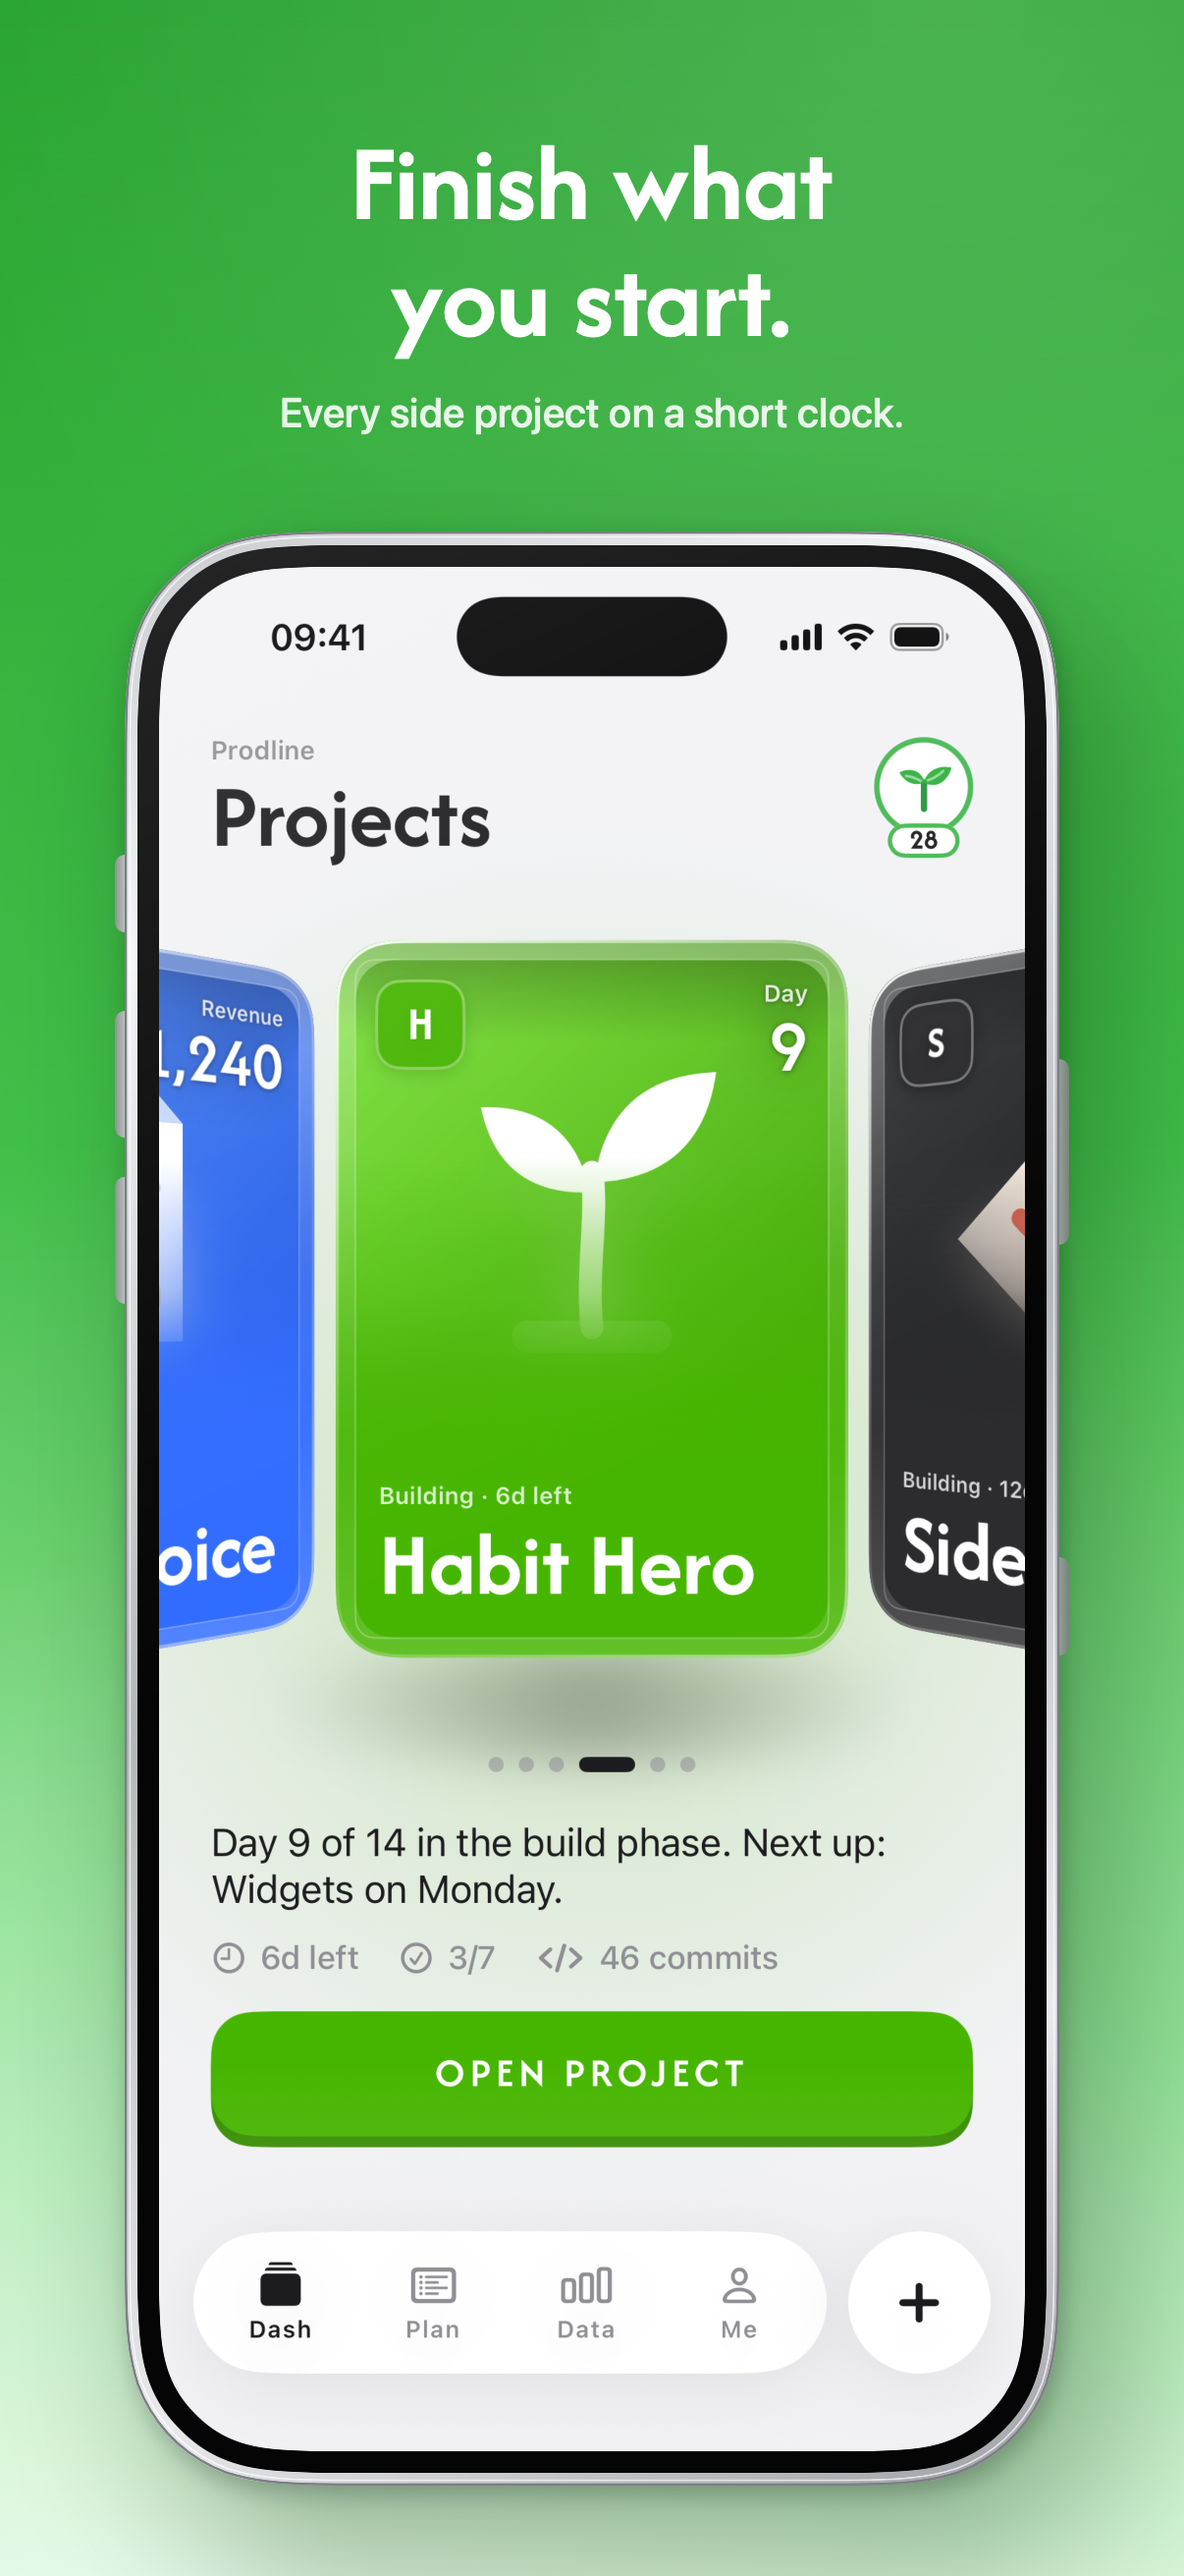
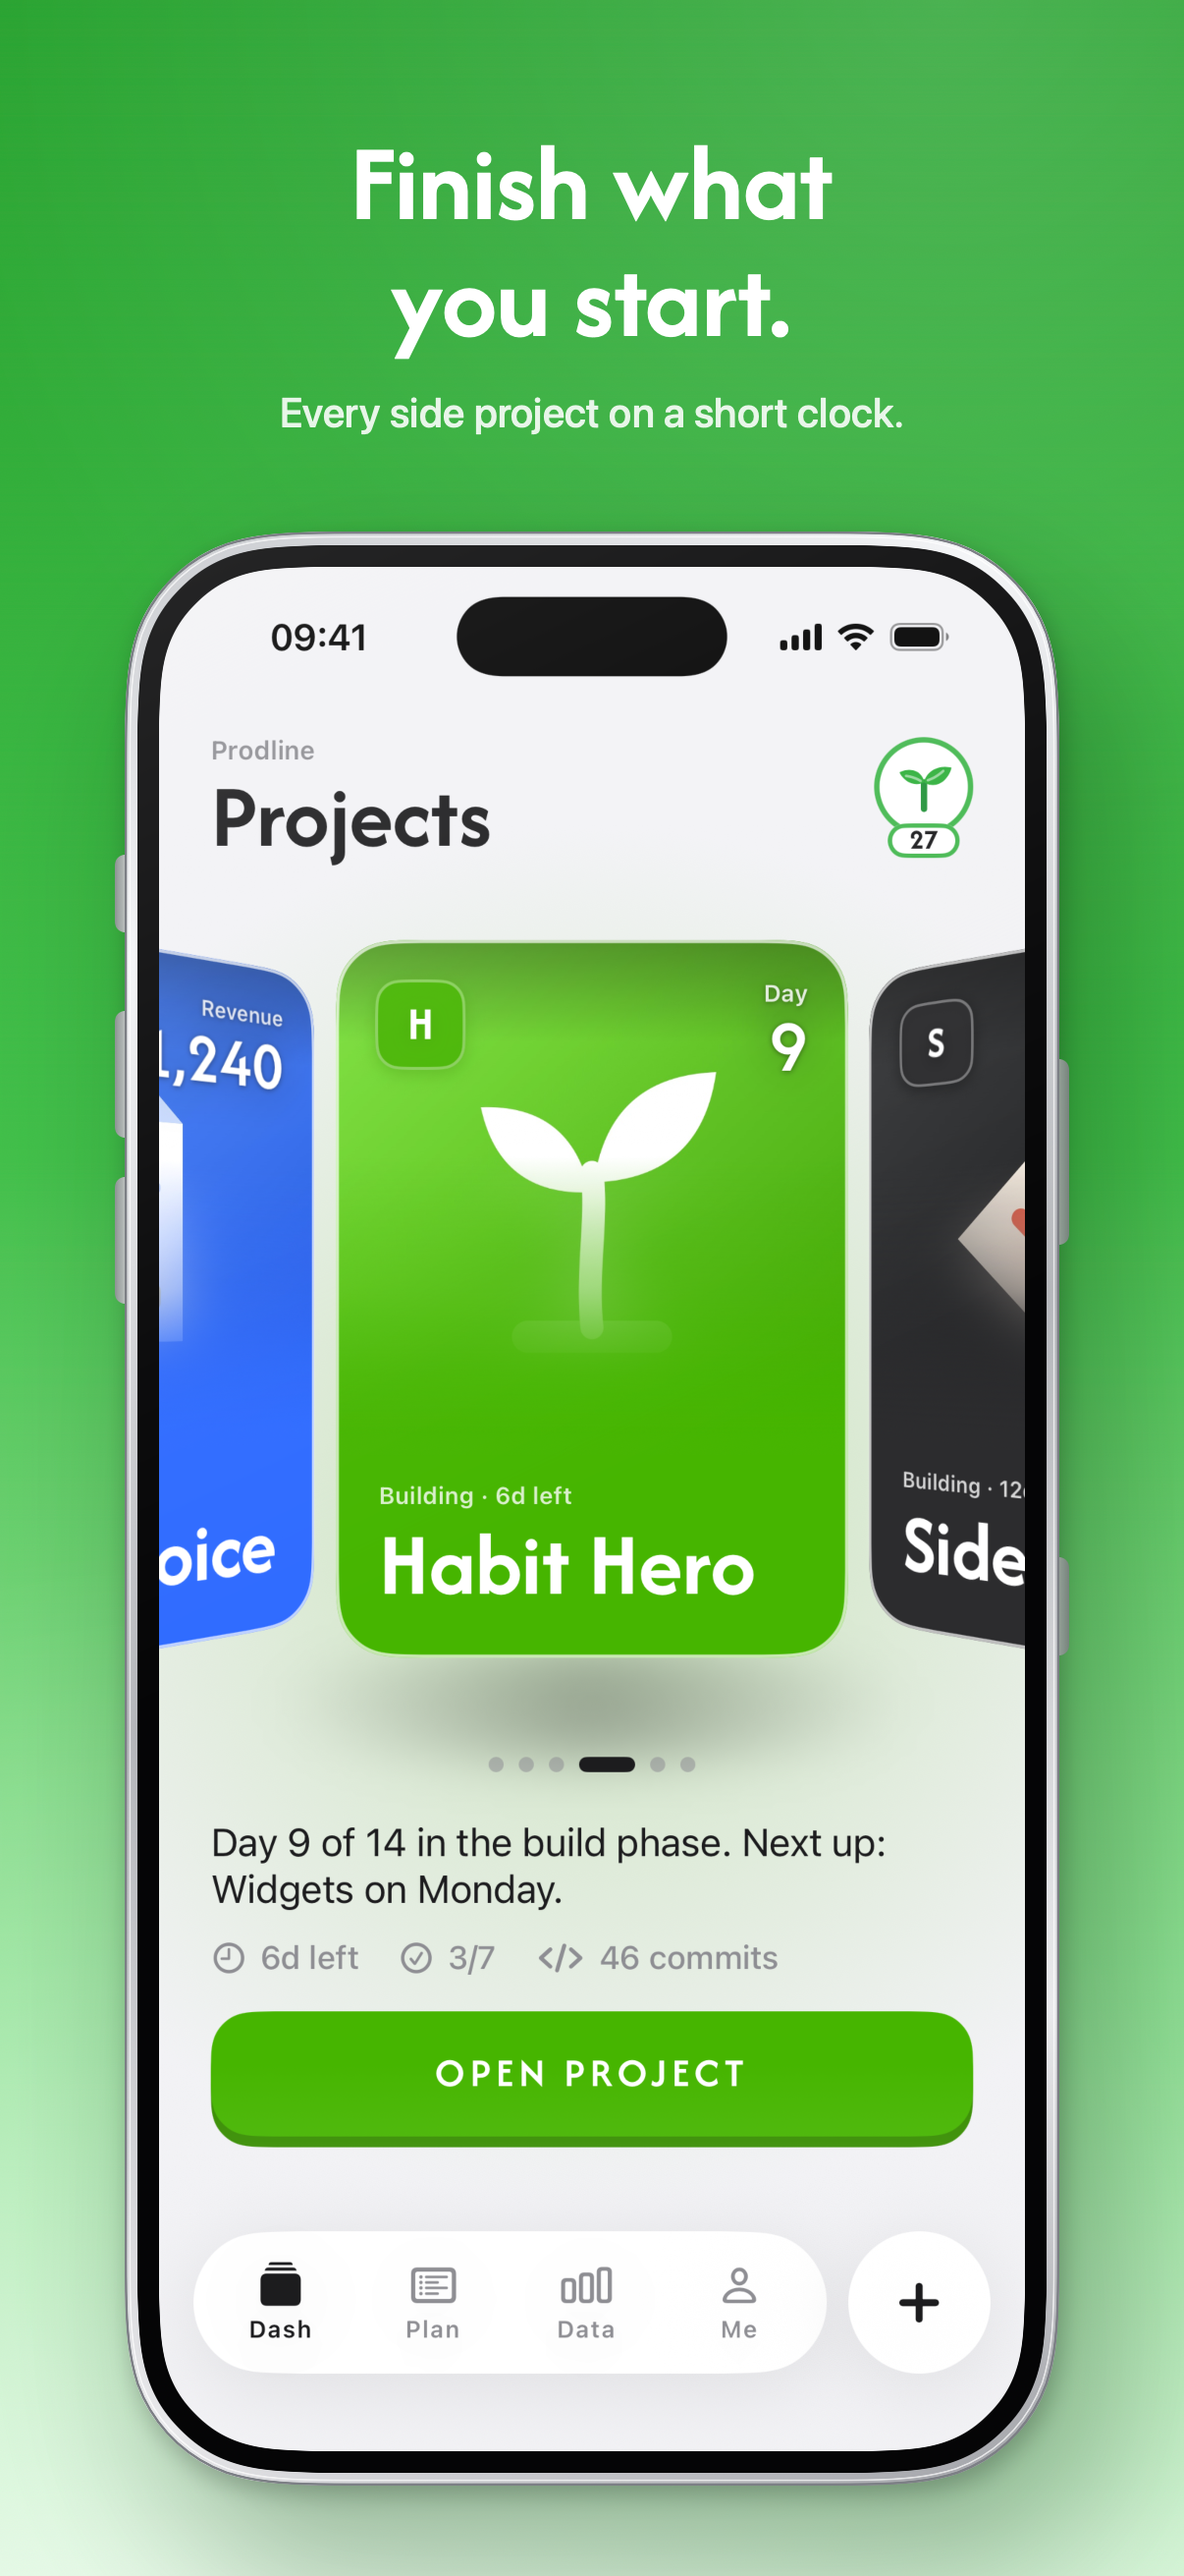
Remove the glass rim from the project cards; screenshots without it

Changed region(s): [[0.1227, 0.3398, 0.859, 0.6487], [0.1227, 0.6178, 0.2454, 0.6487]]

diff --git a/prodline/Design/ProjectCard.swift b/prodline/Design/ProjectCard.swift
@@ -75,44 +75,12 @@ struct ProjectCardFace: View {
             }
             .frame(width: w, height: h)
             .clipShape(RoundedRectangle(cornerRadius: 30 * s, style: .continuous))
-            // A rim of glass: the art bends a little under it and light catches its edges; the face stays sharp.
-            // Drawn rather than .glassEffect, which breaks on the carousel's tilted side cards.
-            .overlay { glassRim(w: w, h: h, s: s).allowsHitTesting(false) }
+            .overlay(RoundedRectangle(cornerRadius: 30 * s, style: .continuous)
+                .strokeBorder(Theme.rim, lineWidth: 1.5))
         }
         .aspectRatio(5 / 7, contentMode: .fit)
         // Cards look the same in dark mode as in light: white faces, bright rim, real project colors.
         .environment(\.colorScheme, .light)
-    }
-
-    private func glassRim(w: CGFloat, h: CGFloat, s: CGFloat) -> some View {
-        let r = 30 * s, band = 10 * s
-        let shape = RoundedRectangle(cornerRadius: r, style: .continuous)
-        return ZStack {
-            // Lensing: the art seen through the band, magnified and softened.
-            background(w: w, h: h, s: s)
-                .scaleEffect(1.07)
-                .blur(radius: 2.5 * s)
-                .mask(GlassRim(radius: r, width: band).fill(.black))
-            // Frost and thickness: brighter at the top where the light comes from.
-            GlassRim(radius: r, width: band)
-                .fill(LinearGradient(stops: [.init(color: .white.opacity(0.3), location: 0),
-                                             .init(color: .white.opacity(0.08), location: 0.45),
-                                             .init(color: .white.opacity(0.04), location: 0.7),
-                                             .init(color: .white.opacity(0.16), location: 1)],
-                                     startPoint: .top, endPoint: .bottom))
-            // The band's inner edge, a fine line where the glass meets the face.
-            RoundedRectangle(cornerRadius: r - band, style: .continuous)
-                .inset(by: band)
-                .stroke(.white.opacity(0.28), lineWidth: 0.8 * s)
-            // Specular highlights on the outer edge: top left strongest, a softer catch bottom right.
-            shape.strokeBorder(LinearGradient(stops: [.init(color: .white.opacity(0.95), location: 0),
-                                                      .init(color: .white.opacity(0.35), location: 0.3),
-                                                      .init(color: .white.opacity(0.08), location: 0.55),
-                                                      .init(color: .white.opacity(0.5), location: 1)],
-                                              startPoint: .topLeading, endPoint: .bottomTrailing),
-                               lineWidth: 1.6 * s)
-        }
-        .frame(width: w, height: h)
     }
 
     /// Square artwork on top (the cover, or a tinted letter), melting into the accent below:
@@ -275,17 +243,5 @@ extension View {
                 .offset(y: width * 0.2)
                 .allowsHitTesting(false)
         }
-    }
-}
-
-/// The card's outline as a band `width` wide, for the glass edge.
-struct GlassRim: Shape {
-    var radius: CGFloat
-    var width: CGFloat
-
-    func path(in rect: CGRect) -> Path {
-        let outer = Path(roundedRect: rect, cornerRadius: radius, style: .continuous)
-        let inner = Path(roundedRect: rect.insetBy(dx: width, dy: width), cornerRadius: max(0, radius - width), style: .continuous)
-        return outer.subtracting(inner)
     }
 }
